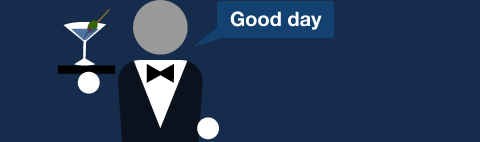
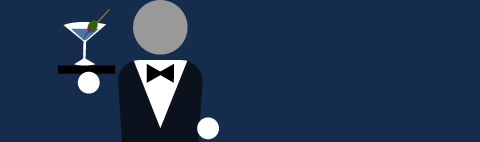
Add basic JS for displaying tweets.

Changed region(s): [[0.4062, 0.0, 0.7188, 0.3099]]

diff --git a/content/javascripts/site.js b/content/javascripts/site.js
@@ -18,6 +18,15 @@ $(document).ready(function() {
     .mouseout(function() { current.addClass("current"); });
     
   if ($("#home").get(0)) {
+    // Set up the twitter display
+    var feeds = $('<div id="twitter-feed"></div>').css({opacity: 0});
+    var tweet = $('<p id="tweet">The actual tweet will appear here</p>');
+    var time = $('<p id="tweet-time">Posted on Twitter @ 00:00</p>');
+    
+    feeds.append(tweet, time);
+    $("#content").prepend(feeds);
+    
+    // Animate the blurb
     var blurb = $("#blurb");
     var info = $("#more-info");
     info.css({opacity: 0});
@@ -25,7 +34,8 @@ $(document).ready(function() {
     
     $(window).load(function() {
       blurb.animate({opacity: 1}, 2000, function() {
-        blurb.animate({backgroundPosition: "(480px 0)"}, 500);
+        blurb.animate({backgroundPosition: "(450px 0)"}, 500);
+        feeds.animate({opacity: 1}, 2000);
         info.animate({opacity: 1}, 1000);
       });
       

diff --git a/content/stylesheets/screen.css b/content/stylesheets/screen.css
@@ -1,7 +1,7 @@
 ---
 filter: sass
 extension: css
-layout: false
+layout: nil
 ---
 / Reused colours
 !light_blue = #26518A
@@ -163,6 +163,28 @@ body
   #page-title
     :position absolute
     :left -1000em
+  
+  #content
+    :position relative
+    
+  #twitter-feed
+    :margin-top 30px
+    :width 270px
+    :position absolute
+    :top 3em
+    :right 29px
+    
+    #tweet
+      :background left top no-repeat url(/images/home/tweet-bkg.gif)
+      :font-size 1.2em
+      :padding 10px 15px 2px 39px
+      :margin 0
+    
+    #tweet-time
+      :background 0 -293px no-repeat url(/images/home/tweet-bkg.gif)
+      :font-size 0.9em
+      :color #738094
+      :padding 13px 0 0 39px
     
   #blurb,
   #more-info
